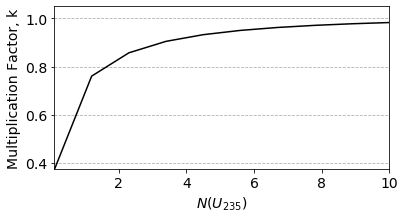
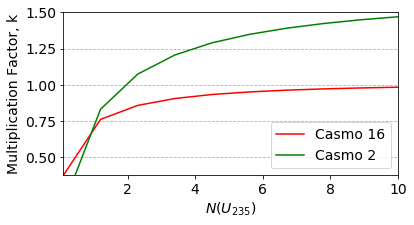
Fixed Bug

diff --git a/Homework/Project/untitled0.py b/Homework/Project/untitled0.py
@@ -2,12 +2,14 @@ import numpy as np
 import matplotlib.pyplot as plt
 
 x, y, = np.loadtxt('ParaStudyNU235.txt')
-
+x2, y2 = np.loadtxt('ParaStudyNU235g2.txt')
 
 fig, ax = plt.subplots(nrows=1, ncols=1, figsize=(6, 3))
 plt.grid(ls='--', axis='y')
-ax.plot(x, y, c='k')
-plt.ylim(min(y), 1.05)
+ax.plot(x, y, c='r')
+plt.ylim(min(y), 1.5)
 plt.xlim(min(x), max(x))
 plt.xlabel(r'$N({U_{235}})$')
 plt.ylabel('Multiplication Factor, k')
+ax.plot(x2, y2, c='g')
+plt.legend(['Casmo 16', 'Casmo 2'])

diff --git a/Homework/Project/Main.py b/Homework/Project/Main.py
@@ -71,7 +71,7 @@ if True:
                              1.15e-6,  1.097e-6, 1.02e-6, 9.71e-7, 8.50e-7, 
                              6.25e-7,  3.50e-7,  2.80e-7, 1.40e-7, 5.80e-8, 
                              3.00e-8,  1.00e-11])  # MeV
-        Casmo_2 = np.array([1.00e1, 1.00e-7, 1.00e-11])*1e6 # eV
+        Casmo_2 = np.array([1.00e1, 1.00e-7, 1.00e-11]) # MeV
         F = Fission_Matrix(nu, N, Nuclides, 300, so, Casmo_2)
         
         A = np.matmul(np.linalg.inv(T), F)
